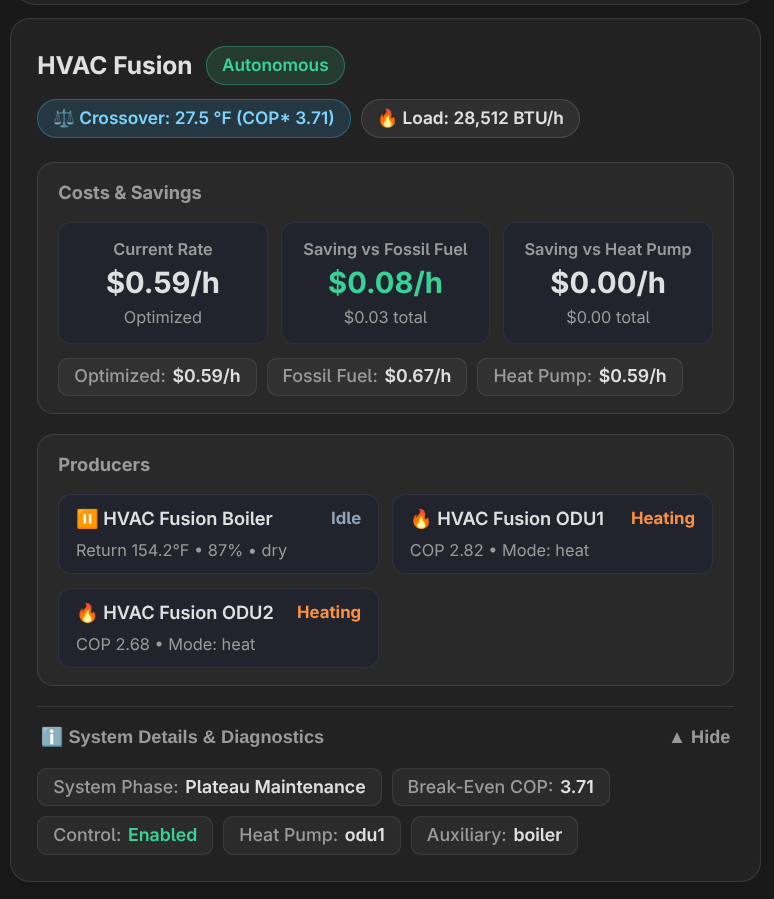
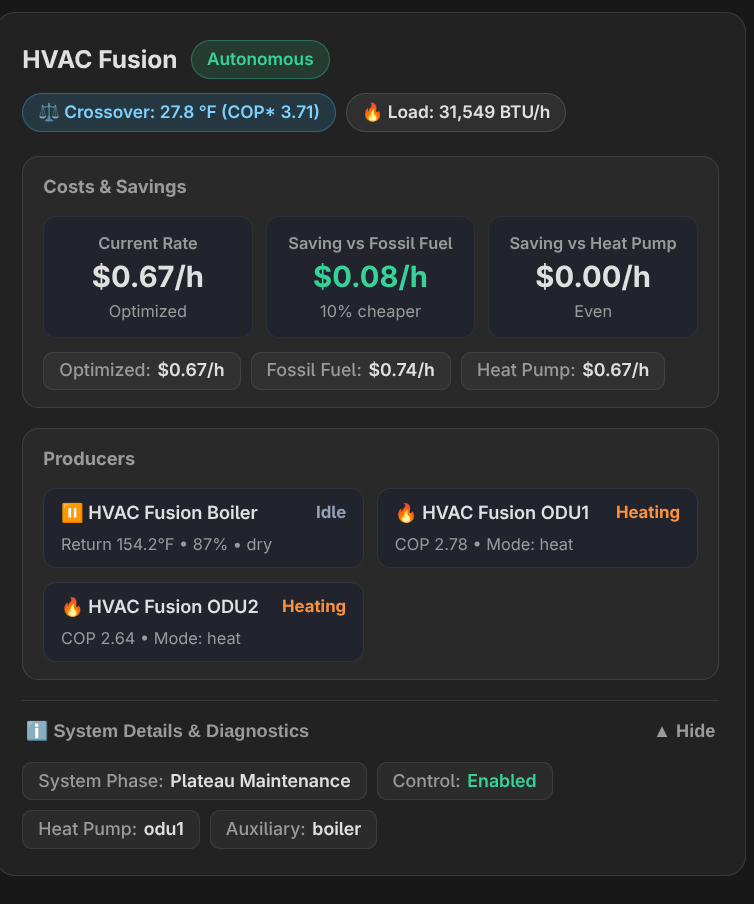
Update system overview card screenshot (#17)

diff --git a/custom_components/hvac_fusion/frontend/hvac-fusion-cards.js b/custom_components/hvac_fusion/frontend/hvac-fusion-cards.js
@@ -4892,7 +4892,7 @@ let HvacFusionSystemCard = class extends i {
                     <div class="kpi-sub">${formatSavingsPct(hpSavedHr, rateAttrs.heat_pump_baseline_cost_per_hr)}</div>
                   </div>
                 </div>
-                <div class="diag-pills">
+                <div class="baseline-pills">
                   <div class="diag-pill">
                     <span class="diag-label">Optimized:</span>
                     <span class="diag-value">${this.formatRate(rateState == null ? void 0 : rateState.state)}</span>
@@ -5097,6 +5097,22 @@ HvacFusionSystemCard.styles = i$3`
       font-size: 0.7rem;
       color: var(--secondary-text-color, #94a3b8);
       margin-top: 2px;
+    }
+
+    .baseline-pills {
+      display: grid;
+      grid-template-columns: repeat(3, minmax(0, 1fr));
+      gap: 8px;
+    }
+
+    .baseline-pills .diag-pill {
+      justify-content: center;
+    }
+
+    @media (max-width: 520px) {
+      .baseline-pills {
+        grid-template-columns: 1fr;
+      }
     }
 
     /* Section 2: Producers (3-across 2-line pills) */

diff --git a/frontend/src/hvac-fusion-system-card.ts b/frontend/src/hvac-fusion-system-card.ts
@@ -303,6 +303,22 @@ export class HvacFusionSystemCard extends LitElement {
       margin-top: 2px;
     }
 
+    .baseline-pills {
+      display: grid;
+      grid-template-columns: repeat(3, minmax(0, 1fr));
+      gap: 8px;
+    }
+
+    .baseline-pills .diag-pill {
+      justify-content: center;
+    }
+
+    @media (max-width: 520px) {
+      .baseline-pills {
+        grid-template-columns: 1fr;
+      }
+    }
+
     /* Section 2: Producers (3-across 2-line pills) */
     .producer-grid {
       display: grid;
@@ -673,7 +689,7 @@ export class HvacFusionSystemCard extends LitElement {
                     <div class="kpi-sub">${formatSavingsPct(hpSavedHr, rateAttrs.heat_pump_baseline_cost_per_hr)}</div>
                   </div>
                 </div>
-                <div class="diag-pills">
+                <div class="baseline-pills">
                   <div class="diag-pill">
                     <span class="diag-label">Optimized:</span>
                     <span class="diag-value">${this.formatRate(rateState?.state)}</span>
